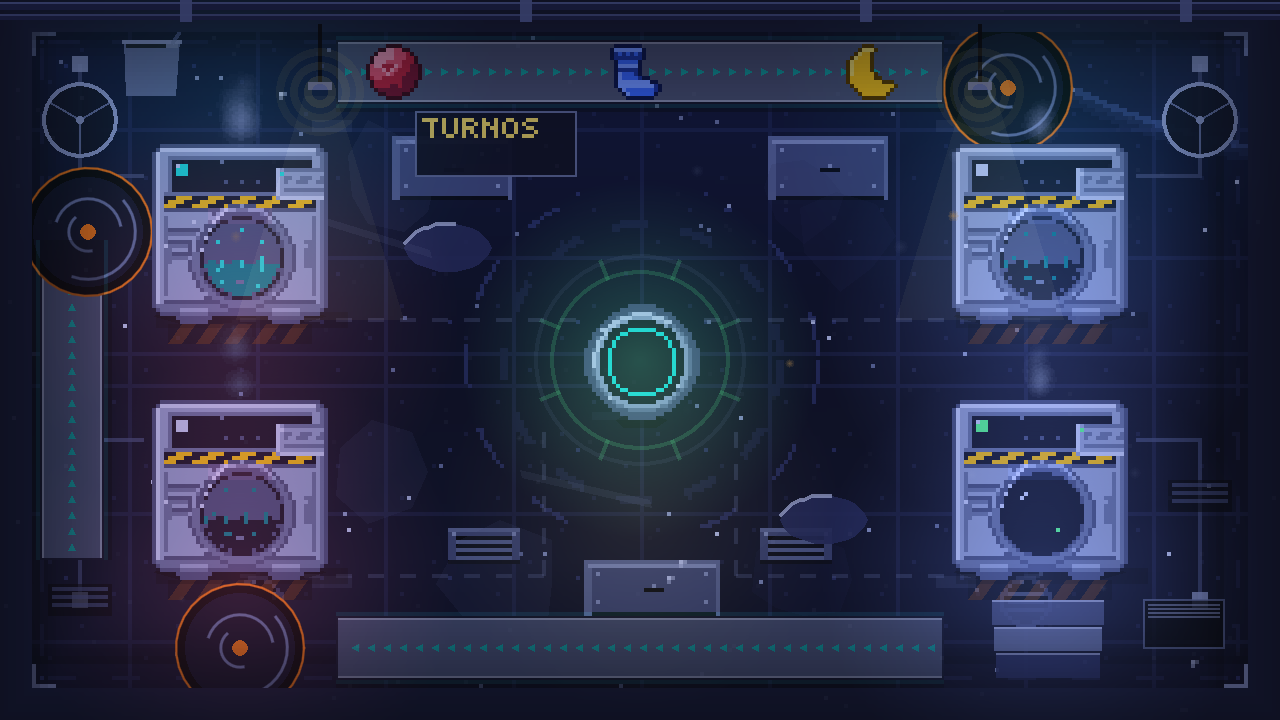
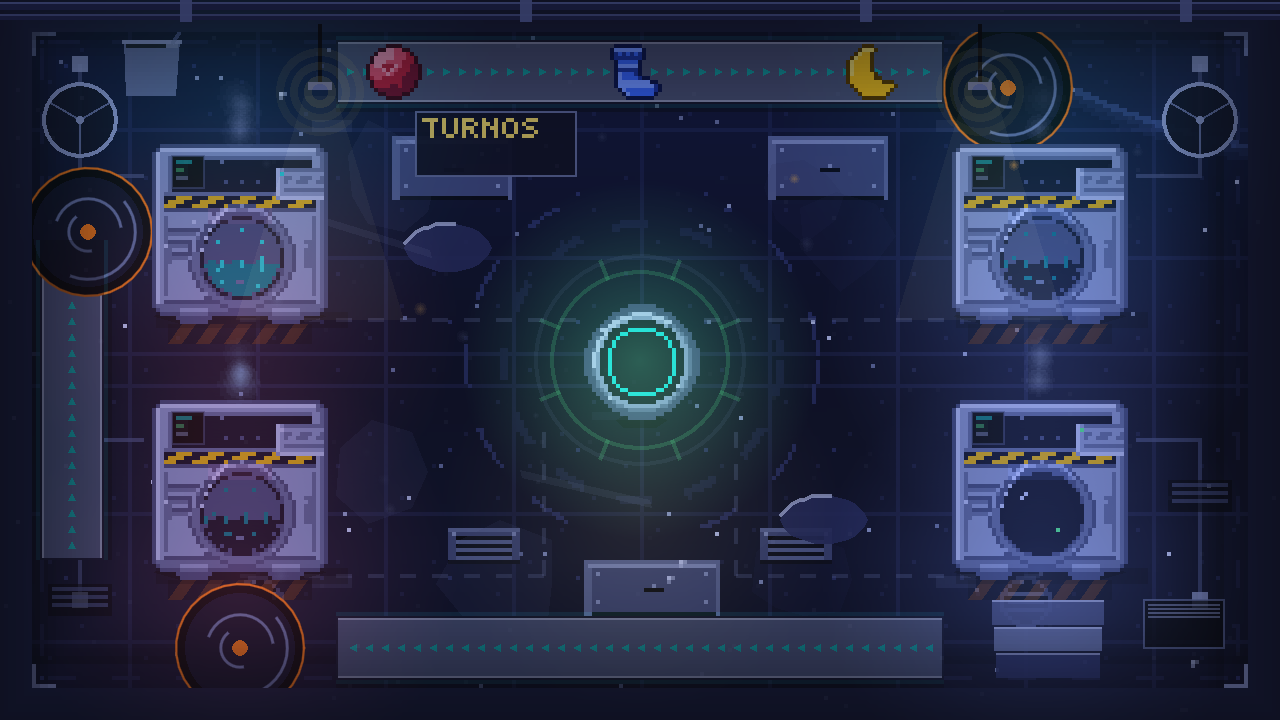
docs(env): confirm FPS, light budget, particles and reduce-motion in ENVIRONMENT.md

diff --git a/docs/ENVIRONMENT.md b/docs/ENVIRONMENT.md
@@ -41,6 +41,8 @@ new keys are `backdrop`, `floor`, `dressing`, `belt_glow`, `belt_shadow`, `atmos
 | −4 | `Shredders` | `Shredder` scenes (unchanged) | |
 | −3 | `BeltShade` | 30 % dark wash so the washers/chute stay the brightest things | 3 quads |
 | 0 | `Machines` | display washers + chute (sandbox/diorama only; the shift uses M4 entities) | |
+| 2 | `PanelReadouts` | one recessed 3-bar readout per cabinet, replacing the sheet's raw LED square | ~20 |
+| 19 | `MenuScrim` (diorama only) | 3-step screen-anchored scrim under the title menu, stops at 470 px | 3 |
 | 5 | `Items` / `DioramaItems` | laundry | |
 | 6 | light emitters | 4 washer pools, chute pool, 2 cold lamps, warm spawn lamp | 8 quads (+2 shafts) |
 | 8 | `Atmosphere` | 3 `CPUParticles2D` emitters (36 steam + 24 dust + 4 embers) | |
@@ -103,19 +105,39 @@ Box: llvmpipe (`Mesa 26.3.1`, `llvmpipe LLVM 23.1.5`), GL Compatibility, 1280×7
 `tools/fps_probe.gd` renders into a fixed 1280×720 `SubViewport` (the Wayland compositor
 resizes the real window, which silently changed the resolution in an earlier run).
 
-60 s runs, v-sync off:
+Method: v-sync off, 1280×720 fixed `SubViewport`, 20 s runs × 3 per configuration, **median**
+of the three (this box is shared and single runs vary by up to 2×). `fps_min` is the worst
+single frame of a 60 s run.
 
-| Scene | FPS avg | FPS min | Frame ms avg | p95 | p99 | Draw calls |
-|---|---|---|---|---|---|---|
-| `--bare` (greybox room only) | 154.5 | 28.8 | 6.47 | 7.41 | 8.73 | 148 |
-| `EnvironmentSandbox` (full pass) | 69.4 | 22.6 | 14.40 | 17.52 | 20.83 | 254 |
-| `Diorama` (menu) | 76.1 | 29.5 | 13.15 | 16.67 | 18.81 | 199 |
+| Scene | Frame ms (median) | FPS (median) | FPS min (60 s) | p95 ms | Draw calls |
+|---|---|---|---|---|---|
+| `--bare` (greybox room only) | **6.76** | 148 | 78.2 | 8.33 | 148 |
+| `EnvironmentSandbox` (full pass) | **11.69** | 86 | 43.7 | 13.89 | 263 |
+| `Diorama` (menu) | **14.57** | 69 | 31.6 | 15.28 | 172 |
 
-So the pass costs **+7.9 ms/frame** over the shipped room, and the menu diorama costs
-**+6.7 ms** — the diorama adds nothing measurable over the sandbox (it drops the third belt
-and adds the beacon/Pip/items). Both clear 60 FPS on average; the p95 sits at ~16.7 ms, so
-the frame is at the 60 Hz budget with the room alone, and the ~100 GPU-less draw calls of
-the shipped belts/washers are the bigger half of the bill.
+So the pass costs **≈ +4.9 ms/frame** over the shipped room, and the menu diorama
+**≈ +7.8 ms** (it renders at 1.25× zoom, so every full-screen layer costs 1.56× the fill,
+while it drops the third belt: 172 draw calls vs 263). Both sit at or under the 60 Hz budget
+on the median frame; the `fps_min` column is a single spike, not a sustained drop.
+
+### 6.1 Confirmation checklist
+
+* **FPS min/avg at 1280×720** — sandbox **86 avg / 43.7 min**, diorama **69 avg / 31.6 min**,
+  bare room **148 avg / 78.2 min** (medians of three 20 s runs; min is the worst single frame
+  of a 60 s run). See the table above.
+* **`PointLight2D` count** — **0** on the shipped path, **8** (exactly the budget) if
+  `LightingRig.USE_POINT_LIGHTS` is flipped on. `test_light_budget_is_eight_emitters_and_zero_point_lights`
+  asserts both the 8-emitter cap and the zero point-light count.
+* **Particles** — 3 `CPUParticles2D` emitters, **64 particles** total: steam 36 (one emitter,
+  9 per washer, `STEAM_BOOSTED = 60` while a washer is TURBULENT), dust 24, embers 4. Below
+  the UX §14 ceiling of 3 emitters / 120 particles.
+* **`Settings.reduce_motion`** — `LightingRig.beat_envelope()` returns 0 (every emitter pinned
+  to its base energy), `Atmosphere` stops all three emitters and pauses the ember timer
+  (`particles_active()` is false), `BeltGlow.beat_envelope()` returns 0, the diorama beacon
+  stops stepping, Pip's `Z` fades out and the camera pan continues (it is not juice).
+  Proven by `test_reduce_motion_pins_the_pulse` and `test_reduce_motion_stops_the_atmosphere`.
+* **Foreground vs the goal** — `test_overlay_never_covers_the_chute_ring_or_the_drums` samples
+  the overlay texture on the beacon ring and on all four drum windows: alpha < 0.07.
 
 Approximate per-feature cost (20 s runs, ±0.5 ms on this noisy box):
 
@@ -127,6 +149,10 @@ Approximate per-feature cost (20 s runs, ±0.5 ms on this noisy box):
 | floor decals (~110 quads) | ~1.5 |
 | dressing + foreground props (~69 quads) | ~1.5 |
 | particles, shafts, belt rails | ~0.6 |
+| readouts + diorama scrim (diorama only) | ~0.3 |
+
+Measured by hiding one layer at a time (`--no-lights`, `--no-backdrop`, `--no-dressing`,
+`--no-floordecals`, `--no-glow`, `--no-atmosphere`); each delta is ±0.5 ms on this box.
 
 Actions taken because of the budget (each is in the code with the reason):
 
@@ -138,7 +164,7 @@ Actions taken because of the budget (each is in the code with the reason):
 6. Belt glow redraws only when the beat envelope changes by > 0.02.
 
 **Honest limit:** 60 FPS is reachable *with the room only*. The full game adds physics,
-items and the HUD on top of these 14.4 ms, so the lead should expect ~45–55 FPS on this
+items and the HUD on top of these ~11.7 ms, so the lead should expect ~45–55 FPS on this
 llvmpipe box and treat §14 of the UX bible as a hardware-GL target. Nothing in this pass is
 needed for correctness: `RoomBuilder` still builds without any of it if a layer is hidden.
 
@@ -178,13 +204,18 @@ Probe/sandbox flags for A/B work: `--bare`, `--no-lights`, `--no-backdrop`,
 | `RoomDressing.SNAP` | `4.0` | decal vertex grid (1 art px) |
 | `RoomDressing.GRIME_COUNT` / `PUDDLES` | 6 / 2 | floor story density |
 | `Backdrop.STAR_COUNT` / `DRIFT_PX_S` | 90 / 2.0 | starfield density and parallax |
-| `LightingRig.WASHER_RADIUS` / `_ENERGY` / `_PULSE` | 220 / 0.34 / 0.07 | pool size, base energy, beat amplitude |
+| `LightingRig.WASHER_RADIUS` / `_ENERGY` / `_PULSE` | 220 / 0.30 / 0.07 | pool size, base energy, beat amplitude |
+| `LightingRig.CHUTE_ENERGY` | 0.55 | destination gets more light than the cabinets |
 | `LightingRig.ROOM_TINT` | `(0.70, 0.72, 0.84)` | how dark/cool the room sits |
 | `LightingRig.PULSE_DECAY` | 0.28 s | neon decay after each beat |
 | `Atmosphere.STEAM_AMOUNT` / `BOOSTED` | 36 / 60 | calm vs TURBULENT steam |
 | `Atmosphere.RAIL_ALPHA_MIN/MAX` | 0.05 / 0.16 | belt neon breathing |
 | `Diorama.CAMERA_ZOOM` | 1.25 | 1 art px = 5 screen px exactly |
-| `Diorama.PAN_X` / `PAN_Y` / `PAN_PERIOD_S` | 18 / 6 / 24 | drift of the menu camera |
+| `Diorama.CAMERA_HOME` | `(640, 316)` | centred so the ±18 pan never clips a cabinet; high enough for the top belt |
+| `Diorama.PAN_X` / `PAN_Y` / `PAN_PERIOD_S` | 18 / 6 / 24 | drift of the menu camera (worst case crops 2 world px) |
+| `Diorama.SCRIM_STEPS` / `SCRIM_ALPHAS` | `[160,320,470]` / `[.34,.20,.09]` | quiet left third; last edge clears the chute ring |
+| `Diorama.CHUTE_RING_RADIUS` | 96 | beacon ring; the scrim test reads it |
+| `RoomDressing.MACHINE_ALBEDO` | `(0.87, 0.88, 0.93)` | cabinet dimming so the chute stays the only destination |
 | `Diorama.AMBIENT_BPM` | 90 | menu pulse and beacon step |
 
 ## 9. What the lead must wire in `MainLevel`
@@ -211,7 +242,9 @@ diorama.set_paused(true)     # while hidden
 diorama.play_intro()         # 1.2 s camera settle when returning from a shift
 ```
 
-`Diorama` never starts `BeatConductor`; its 90 BPM ambient clock is local.
+`Diorama` never starts `BeatConductor`; its 90 BPM ambient clock is local. It also dims its
+own left third (`MenuScrim`, a camera child at z 19) and trims the cabinet albedo — the title
+screen must not add a second scrim or the menu will sit on a double-darkened column.
 
 ## 10. Deviations from the brief
 
@@ -224,6 +257,8 @@ diorama.play_intro()         # 1.2 s camera settle when returning from a shift
 | foreground dust layer | dust motes at ≤ 5 % inside the lane, none of the vignette | the lane must stay legible (§3.6.6) |
 | "2 px" belt rails | 1 art px (4 world px) | the pixel grid has no 2 px unit in world space |
 | `env_before.png` from `main` | same sandbox with `--bare` | identical camera/machinery isolates the pass |
+| diorama pan +90 px right | camera stays centred; quiet left third from a screen-anchored 3-step scrim | +90 put the NW/SW cabinets half out of frame, which reads as a bug |
+| washers at full album + pool 0.5 | cabinets at 87 % albedo, pool 0.30, chute 0.55, beacon 0.85 | four equal focal points competed with the destination |
 
 ## 11. Known issues
 
